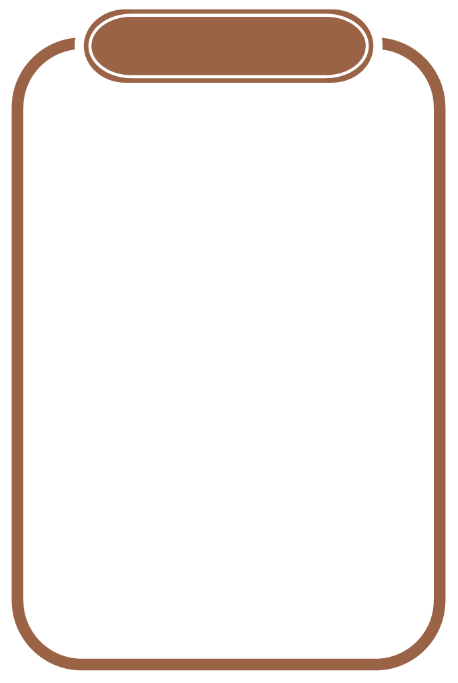
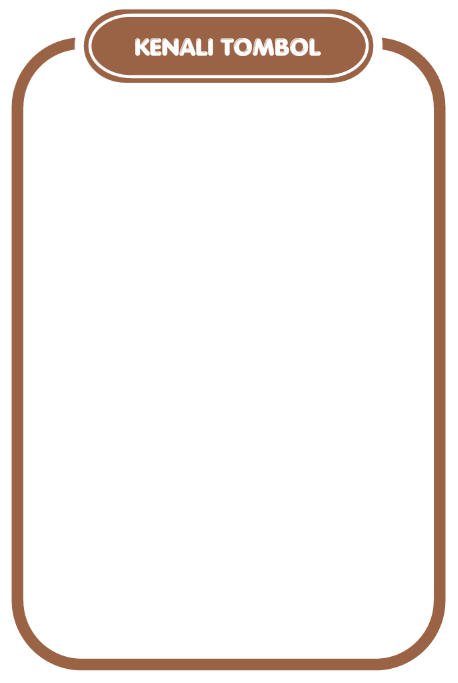
fix(page-04): eliminate blue landscape gap and restore crisp white Kenali Tombol title

Changed region(s): [[0.2751, 0.0307, 0.7031, 0.0922]]

diff --git a/src/data/canvaLayout.js b/src/data/canvaLayout.js
@@ -29,7 +29,7 @@ export const canvaLayouts = {
   // ==========================================================
   page01: {
     // Judul Utama "BERAGAM BUDAYA INDONESIA"
-    title: { x: 1.33, y: 1.09, w: 5.87, h: 1.47, rotate: 2, zIndex: 10 },
+    title: { x: 1.18, y: 1.09, w: 5.87, h: 1.47, rotate: 2, zIndex: 10 },
 
     // Pita Emas (Background Subjudul)
     ribbon: { x: 2.07, y: 2.44, w: 4.11, h: 1.13, rotate: 0, zIndex: 9 },
@@ -95,7 +95,7 @@ export const canvaLayouts = {
     rocks: { x: 6.69, y: 4.68, w: 1.47, h: 1.5, rotate: 0, zIndex: 19 },
 
     // Dedaunan Depan Bawah
-    foliage: { x: 0.00, y: 4.98, w: 8.00, h: 3.02, rotate: 0, zIndex: 18 },
+    foliage: { x: 0.00, y: 4.98, w: 8.00, h: 3.02, rotate: 0, zIndex: 9 },
   },
 
   // ==========================================================
@@ -119,7 +119,7 @@ export const canvaLayouts = {
     hills: { x: -1.05, y: 3.5, w: 12.83, h: 5.32, rotate: 0, zIndex: 6 },
 
     // Dedaunan Depan Bawah
-    foliage: { x: 0.00, y: 4.98, w: 8.00, h: 3.02, rotate: 0, zIndex: 18 },
+    foliage: { x: 0.00, y: 4.98, w: 8.00, h: 3.02, rotate: 0, zIndex: 9 },
   },
 
   // ==========================================================
@@ -127,16 +127,16 @@ export const canvaLayouts = {
   // ==========================================================
   page04: {
     // Template Bingkai Tombol (Card)
-    cardFrame: { x: 1.62, y: 0.61, w: 4.76, h: 7.10, rotate: 0, zIndex: 10 },
+    cardFrame: { x: 1.62, y: 0.50, w: 4.76, h: 7.10, rotate: 0, zIndex: 10 },
 
     // Mahkota Ornamen Bali di atas kartu
-    crown: { x: 3.00, y: 0.16, w: 2.00, h: 1.22, rotate: 0, zIndex: 12 },
+    crown: { x: 2.95, y: 0.10, w: 2.10, h: 1.24, rotate: 0, zIndex: 12 },
 
     // Gunung Kanan Latar
     mountain: { x: 4.55, y: 2.45, w: 5.73, h: 1.78, rotate: 0, zIndex: 4 },
 
-    // Hamparan Bukit
-    hills: { x: 0.00, y: 2.76, w: 8.00, h: 2.83, rotate: 0, zIndex: 5 },
+    // Hamparan Bukit (Diperlebar & diperpanjang agar menutup celah biru langit)
+    hills: { x: -1.05, y: 3.20, w: 12.83, h: 5.32, rotate: 0, zIndex: 5 },
 
     // Rumah Honai Kiri
     houseLeft: { x: 0.15, y: 3.65, w: 1.24, h: 0.90, rotate: 0, zIndex: 6 },
@@ -149,7 +149,7 @@ export const canvaLayouts = {
     flowersRight: { x: 6.40, y: 4.88, w: 1.60, h: 0.75, rotate: 0, flipH: true, zIndex: 7 },
 
     // Dedaunan Depan Bawah
-    foliage: { x: 0.00, y: 4.98, w: 8.00, h: 3.02, rotate: 0, zIndex: 18 },
+    foliage: { x: 0.00, y: 4.98, w: 8.00, h: 3.02, rotate: 0, zIndex: 9 },
   }
 };
 

diff --git a/src/style.css b/src/style.css
@@ -959,16 +959,16 @@ body {
 /* 2x3 Grid of Buttons */
 .p4-buttons-grid {
   position: absolute;
-  top: 15%;
+  top: 13.5%;
   left: 6%;
   width: 88%;
-  height: 82%;
+  height: 78%;
   display: grid;
   grid-template-columns: 1fr 1fr;
   grid-template-rows: repeat(3, 1fr);
   column-gap: clamp(8px, 2cqi, 24px);
-  row-gap: clamp(6px, 1.4cqi, 16px);
-  padding: clamp(6px, 1.5cqi, 14px) clamp(6px, 1.5cqi, 14px);
+  row-gap: clamp(4px, 1.1cqi, 14px);
+  padding: clamp(4px, 1.2cqi, 12px) clamp(6px, 1.5cqi, 14px);
   align-items: center;
   justify-items: center;
   pointer-events: auto;

diff --git a/src/components/pageRenderer.js b/src/components/pageRenderer.js
@@ -322,7 +322,8 @@ function renderPage04(data) {
 
       <!-- Layer 9: Template Kartu Tombol -->
       <div class="layer layer-p4-card-wrapper" style="${getCanvaStyle('page04', 'cardFrame')}">
-        <img src="${assets.cardFrame}" alt="" class="p4-card-frame-img" draggable="false" />
+        <img src="${assets.cardFrame}" alt="${title}" class="p4-card-frame-img" draggable="false" />
+        <h1 class="sr-only">${title}</h1>
 
         <!-- 2x3 Grid of Buttons -->
         <div class="p4-buttons-grid">
